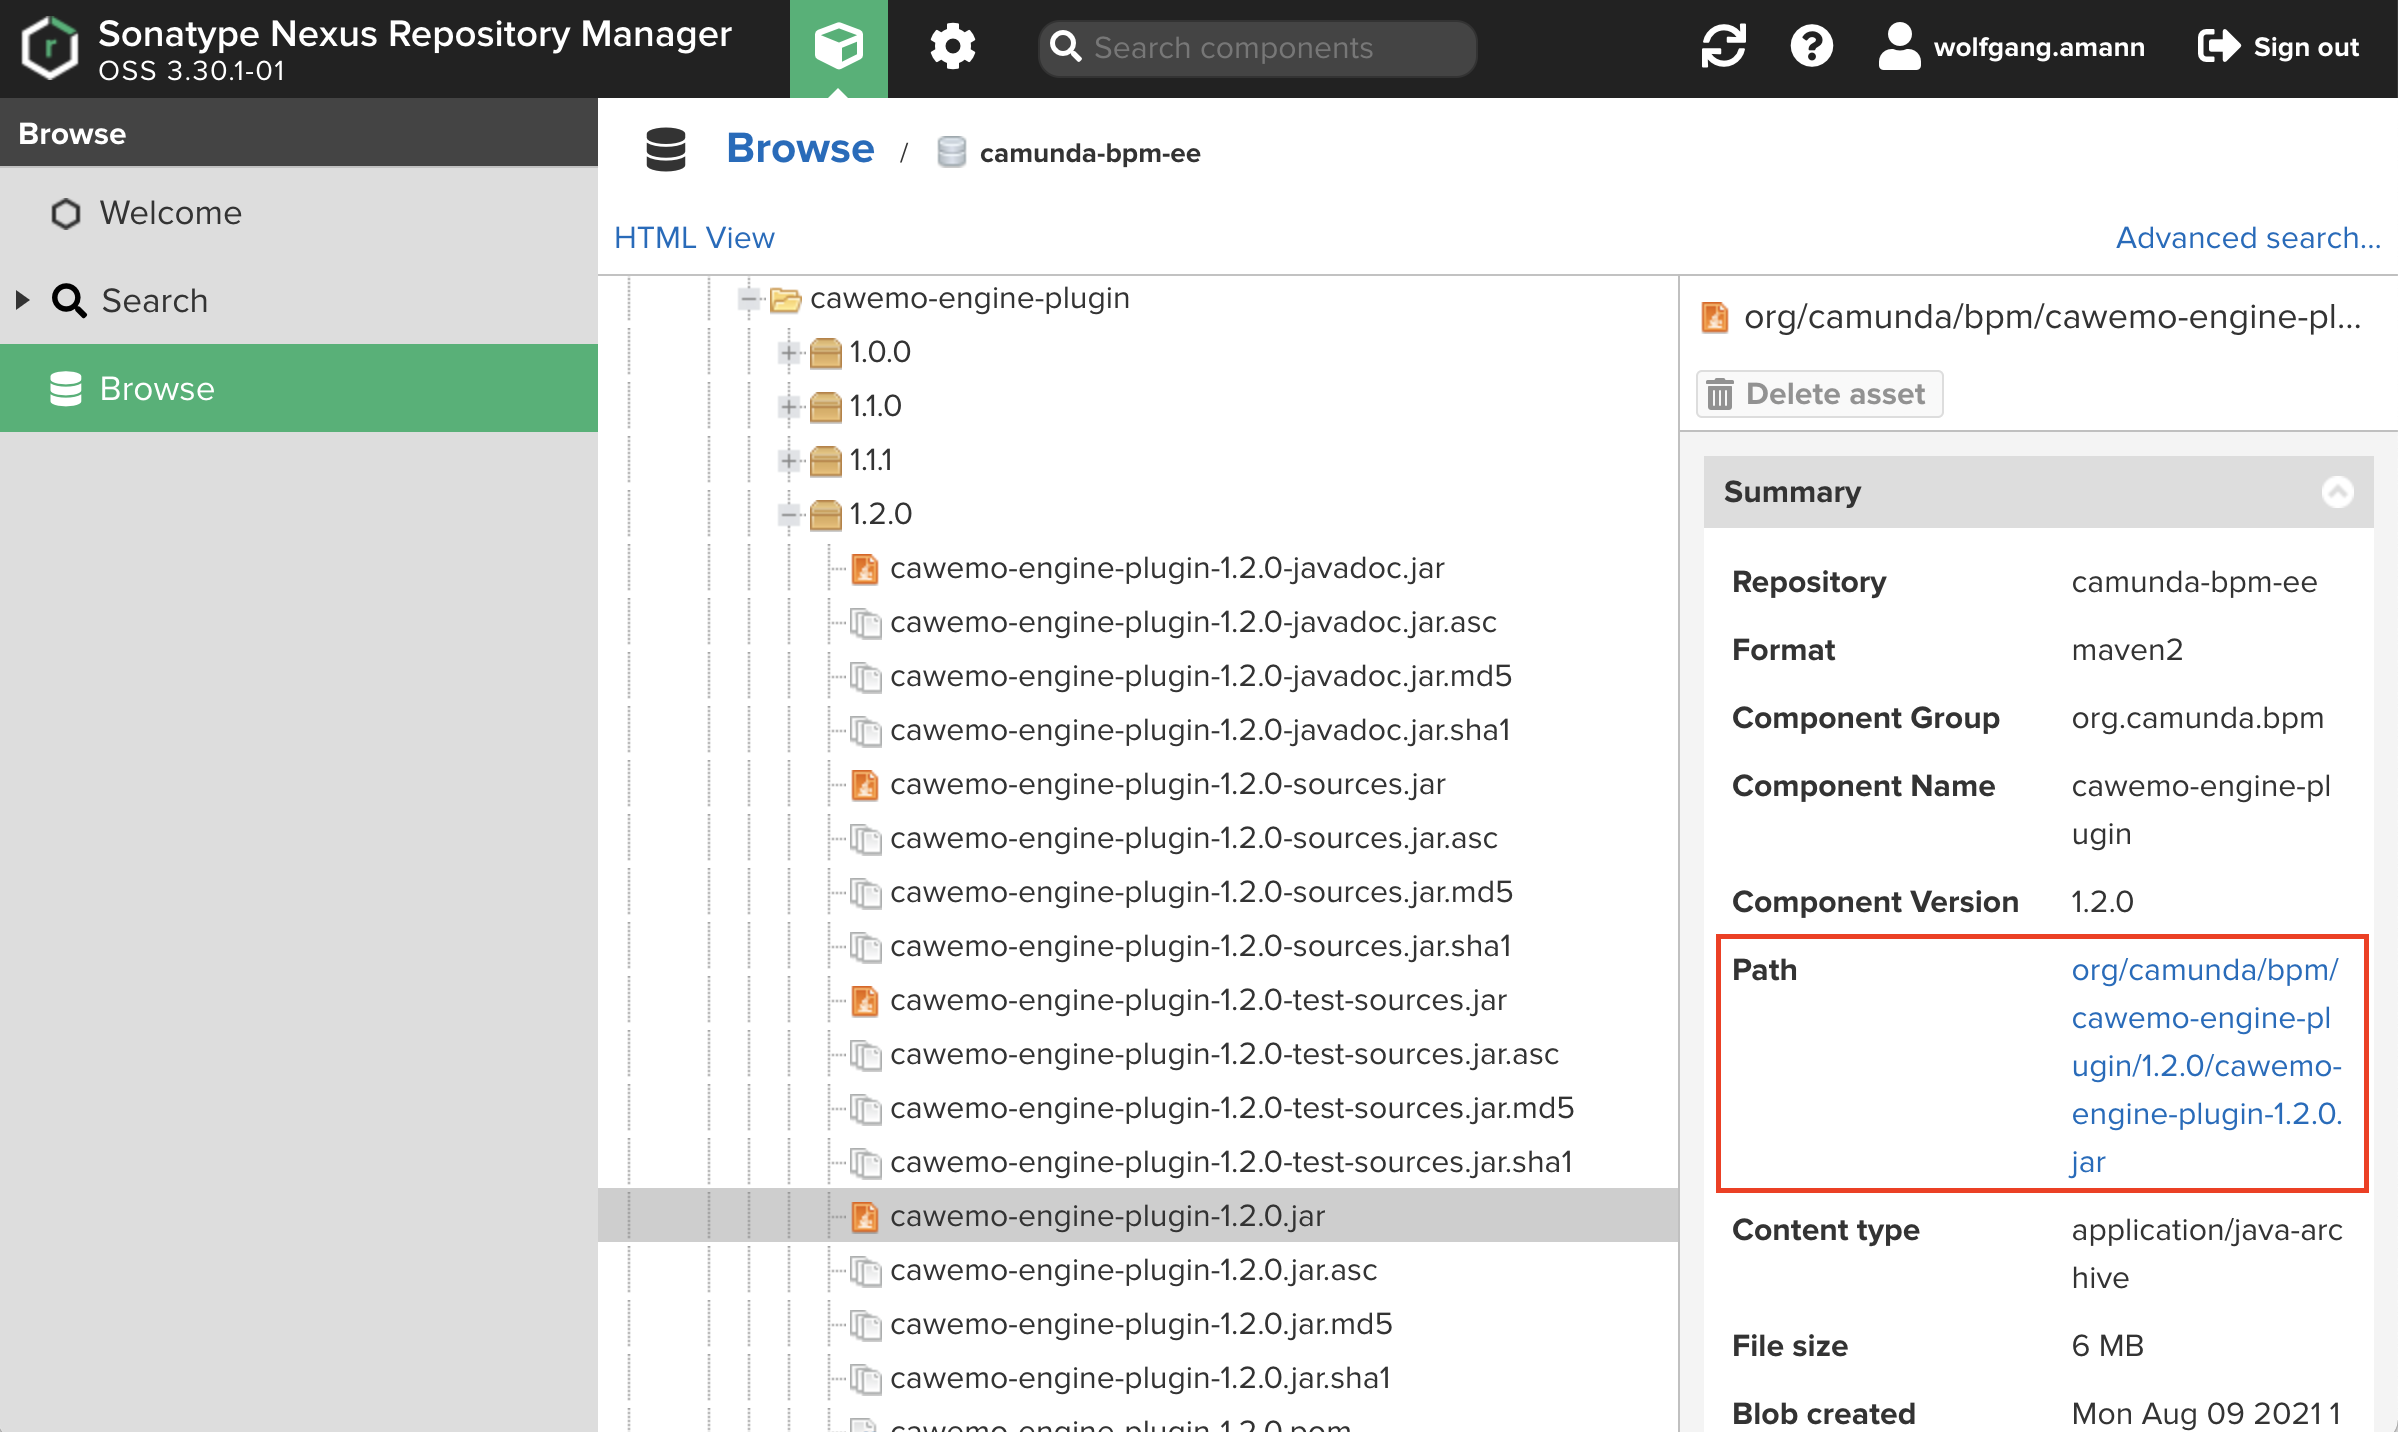
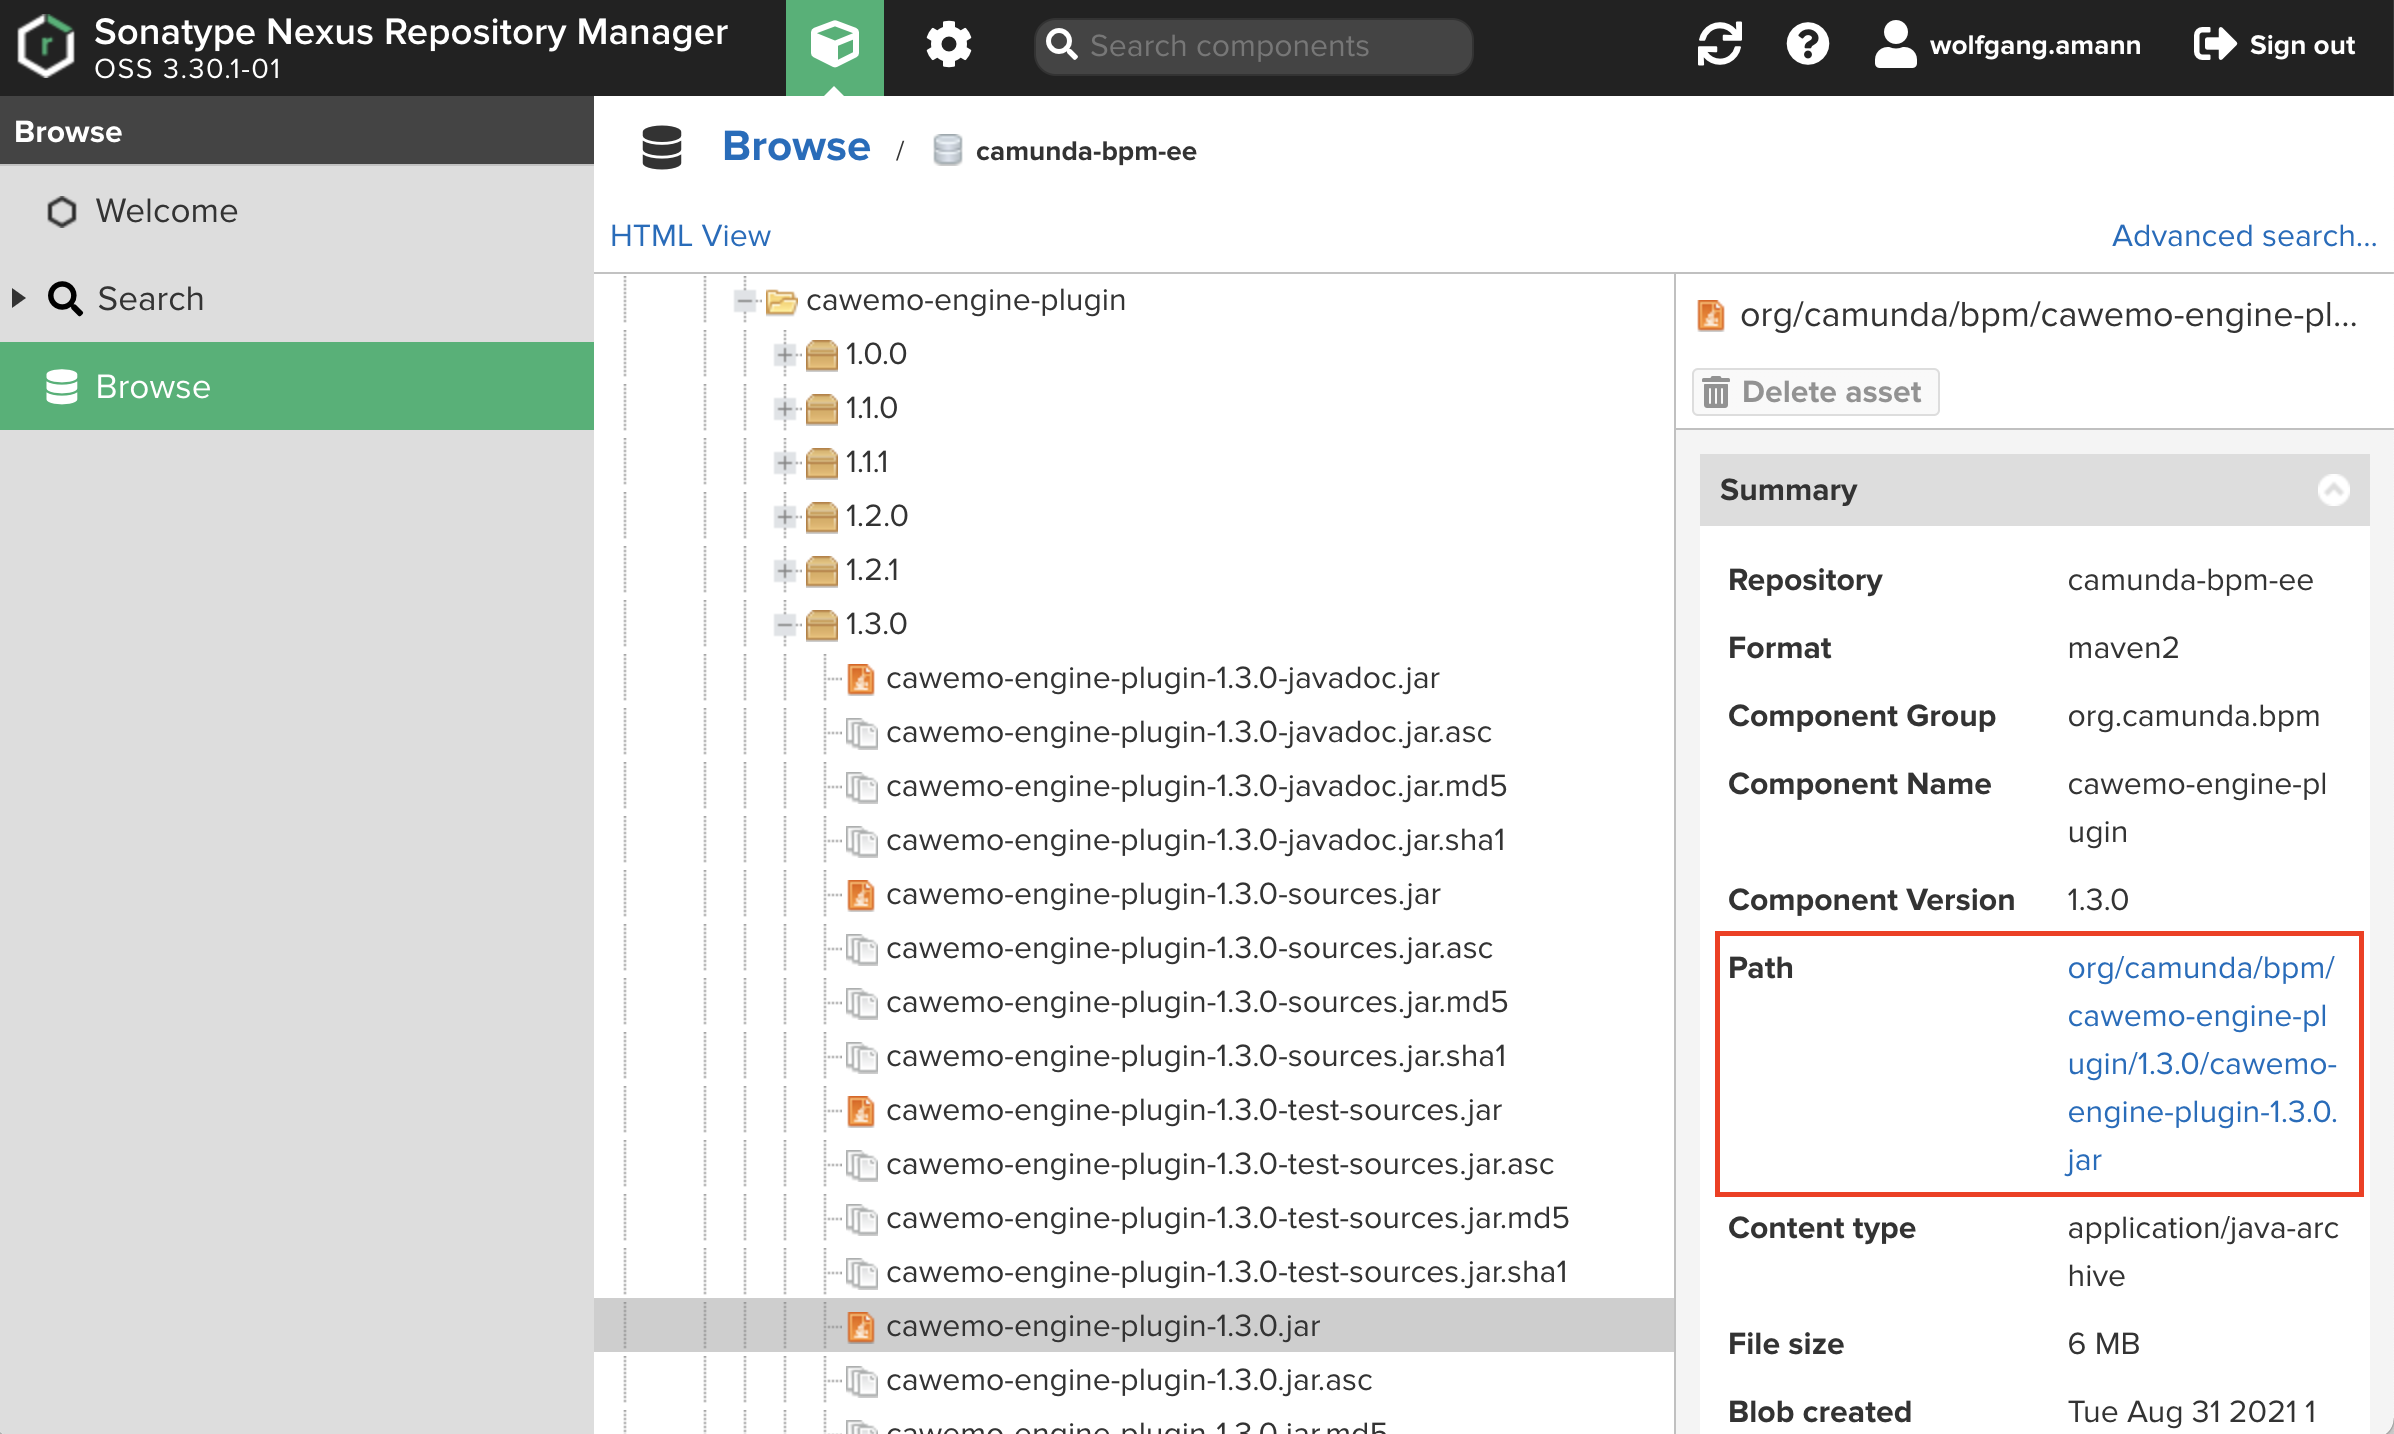
chore(docs): cawemo-engine-plugin@1.3.0

diff --git a/content/technical-guide/integrations/engine.md b/content/technical-guide/integrations/engine.md
@@ -1,7 +1,7 @@
 ---
 title: 'Camunda Platform Engine'
 weight: 10
-integrationversion: '1.2.1'
+integrationversion: '1.3.0'
 
 menu:
   main:
